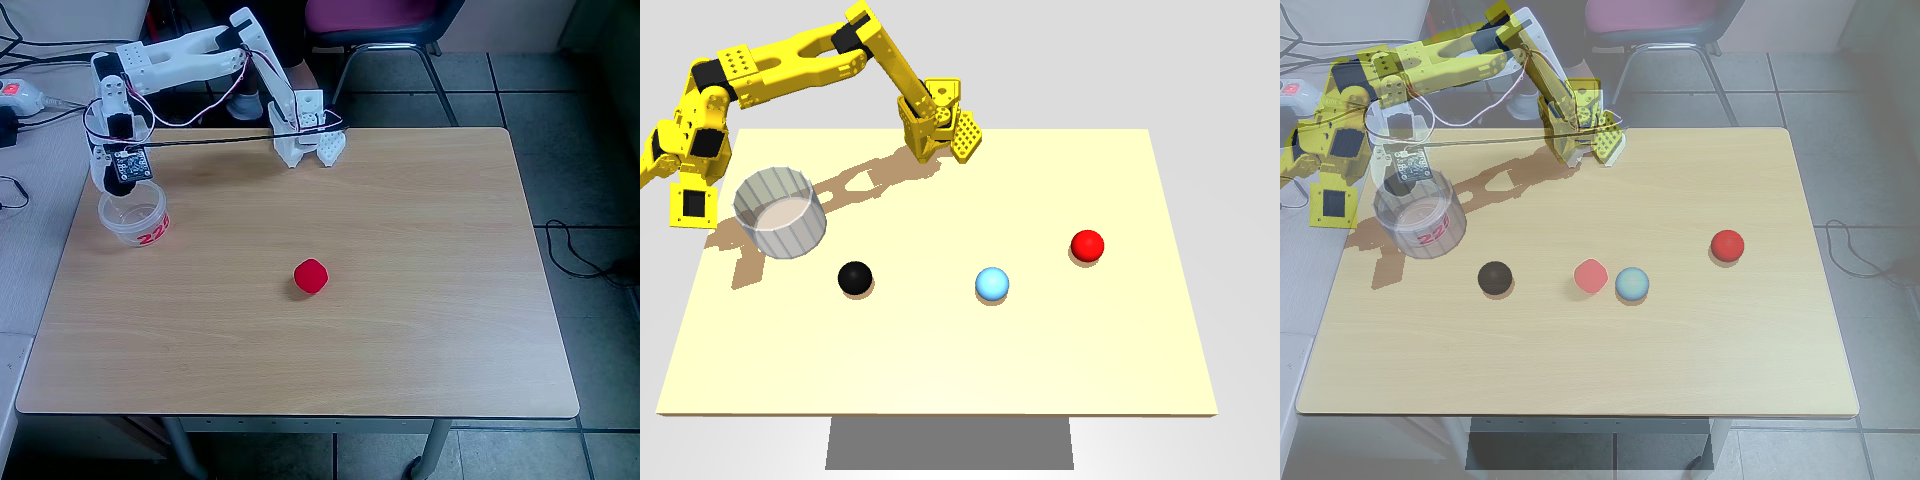
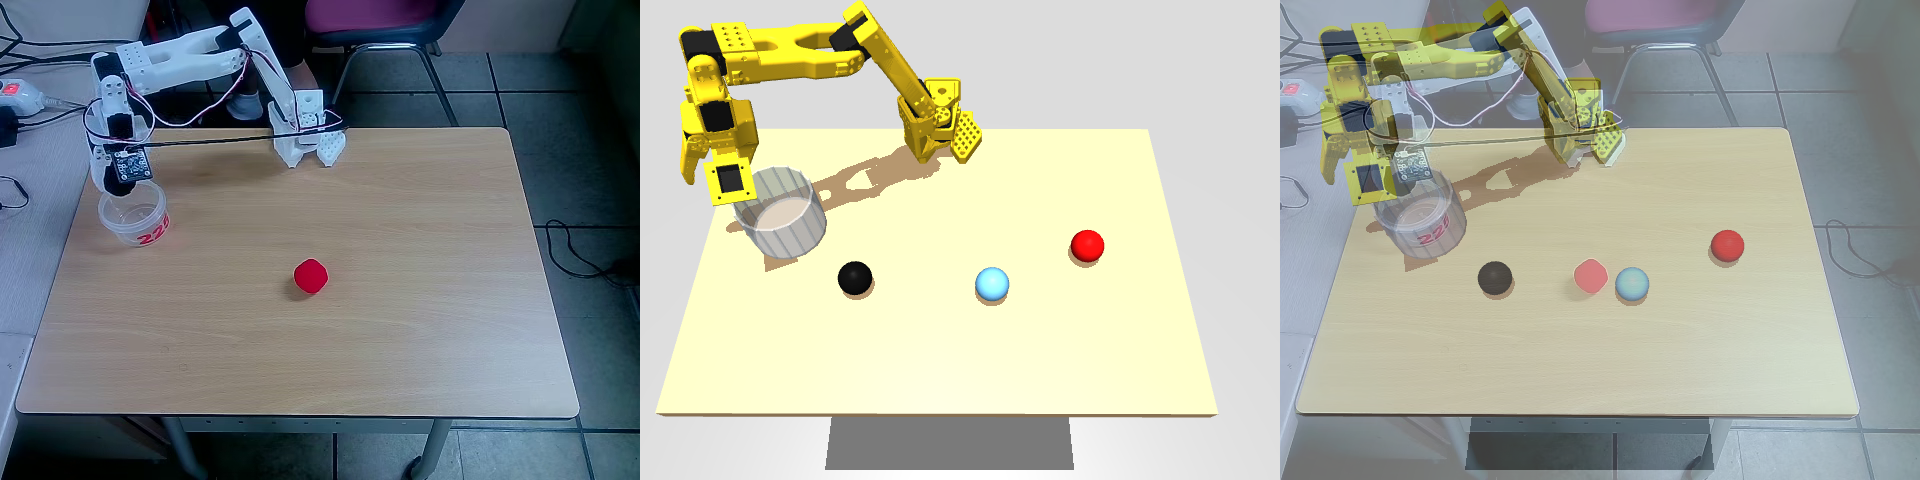
feat: calibrate joint offsets from 10 real episodes; sim home pose
- MID_RAD fitted to grasp/release frames of 10 episodes (~1.6 cm grasp error)
- widen wrist_flex range to 2.22 rad to cover the real data
- SIM_HOME_NORM: real home folds gripper into shoulder under fitted offsets,
  so the sim uses wrist_flex 43.7 instead of 71.7 (documented gap)
- wrist_cam fovy 78; refreshed alignment overlays and notes

Changed region(s): [[0.3125, 0.0, 0.4688, 0.5938], [0.6562, 0.0312, 0.8125, 0.5938], [0.4688, 0.1875, 0.5, 0.25]]

diff --git a/sim/env.py b/sim/env.py
@@ -6,7 +6,7 @@ import gymnasium as gym
 import mujoco
 import numpy as np
 
-from calib import HOME_NORM, Calib
+from calib import SIM_HOME_NORM, Calib
 
 SCENE_XML = Path(__file__).resolve().parent / "scene.xml"
 COLORS = ("red", "black", "sky blue")
@@ -90,7 +90,7 @@ class BallSortEnv(gym.Env):
         return self.calib.rad_to_norm(self.data.qpos[:6])
 
     def at_home(self) -> bool:
-        return bool(np.all(np.abs(self.joint_norm() - HOME_NORM) < HOME_TOL))
+        return bool(np.all(np.abs(self.joint_norm() - SIM_HOME_NORM) < HOME_TOL))
 
     # ---------- 내부 ----------
     def _set_ball(self, color, xy):
@@ -143,7 +143,7 @@ class BallSortEnv(gym.Env):
         options = options or {}
         if not options.get("keep_scene"):
             mujoco.mj_resetData(self.model, self.data)
-            home = HOME_NORM + self.np_random.uniform(-HOME_NOISE, HOME_NOISE, 6)
+            home = SIM_HOME_NORM + self.np_random.uniform(-HOME_NOISE, HOME_NOISE, 6)
             q = self.calib.norm_to_rad(home)
             self.data.qpos[:6] = q
             self.data.ctrl[:6] = np.clip(q, self._ctrl_lo, self._ctrl_hi)

diff --git a/calib.py b/calib.py
@@ -13,12 +13,15 @@ DEFAULT_CALIB = (
 
 # 실제 데이터셋 에피소드 시작/끝 평균 (정규화 단위)
 HOME_NORM = np.array([-2.8, 0.1, 93.7, 71.7, -0.7, 1.5])
+# 시뮬레이션 제자리 자세. 보정된 MID_RAD에서 실제 HOME_NORM은 그리퍼가 어깨에 35mm 박히므로
+# wrist_flex만 28 단위 펴서 충돌을 없앤 값. 실제와의 차이는 docs/alignment/NOTES.md 참고.
+SIM_HOME_NORM = np.array([-2.8, 0.1, 93.7, 43.7, -0.7, 1.5])
 
 TICKS_PER_REV = 4096
 MID_TICK = 2047
 # 2047 tick(= 실제 캘리브레이션 중앙 = 제자리 자세)에 해당하는 MuJoCo 관절각.
-# tools/align_overlay.py로 실제 영상과 겹쳐 보며 보정한다.
-MID_RAD = np.array([0.0, -1.70, 1.54, 1.20, 0.0, 0.0])
+# 에피소드 10개의 공 잡기/통 놓기 프레임을 위쪽 카메라로 겹쳐 최소제곱 보정 (Task 4, docs/alignment/NOTES.md).
+MID_RAD = np.array([0.02, -1.68, 1.29, 1.86, 0.0, 0.0])
 
 
 class Calib:

diff --git a/tests/test_env.py b/tests/test_env.py
@@ -1,7 +1,7 @@
 import numpy as np
 import pytest
 
-from calib import HOME_NORM
+from calib import SIM_HOME_NORM as HOME_NORM  # 시뮬레이션 제자리 자세
 from sim.env import BALL_R_MAX, COLORS, MAX_STEPS, BallSortEnv, task_text
 
 

diff --git a/docs/alignment/NOTES.md b/docs/alignment/NOTES.md
@@ -1,6 +1,6 @@
 # Sim ↔ real alignment notes (Task 4)
 
-Tool: `python tools/align_overlay.py --episode 0 --frames 0 225 325`. Each PNG is [real | sim | 50% blend].
+Tool: `python tools/align_overlay.py --episode 0 --frames 0 225 325` (`--episode 20 --frames 229 310` for the other after images). Each PNG is [real | sim | 50% blend].
 - `before_*`: the HEAD state before Task 4.
 - `after_*`: the committed state.
 - `*_front.png`: the overhead camera.
@@ -16,10 +16,13 @@ Tool: `python tools/align_overlay.py --episode 0 --frames 0 225 325`. Each PNG i
 ## Final values
 | item | value |
 |---|---|
+| MID_RAD | [0.02, -1.68, 1.29, 1.86, 0, 0] |
+| joint ranges | wrist_flex range and ctrlrange widened to [-1.658, 2.22] (real data max is 2.164 rad). Other joints unchanged |
+| SIM_HOME_NORM | [-2.8, 0.1, 93.7, **43.7**, -0.7, 1.5]: real HOME_NORM with wrist_flex -28 units. Used by the sim for reset, at_home and tests |
 | overhead camera `top` | pos (0.494, 0.025, 0.542), targetbody `cam_target` at (0.1875, 0.0245, 0), fovy 52.5 |
 | bin | center (0.165, -0.205) (scene.xml `bin` pos and env.py `BIN_CENTER`). Diameter 9 cm and height 7 cm unchanged (`BIN_R_IN` 0.045, `BIN_H` 0.07) |
-| wrist_cam | pos (-0.00296, 0.05436, -0.05310) unchanged. quat (0.954498, -0.284308, -0.085070, 0.029438), i.e. old quat rotated -10° about the camera's local y. fovy 61 unchanged |
-| MID_RAD | **unchanged** [0.0, -1.70, 1.54, 1.20, 0, 0]. See the blocker below |
+| wrist_cam | pos (-0.00296, 0.05436, -0.05310) unchanged. quat (0.954498, -0.284308, -0.085070, 0.029438) = old quat rotated -10° about the camera's local y. fovy 78 (was 61) |
+| robot base | unchanged at (0, 0, 0). A fitted offset of about 2 cm was not significant, and the base is clamped |
 
 ### Overhead camera
 - Fitted to the 4 table corners: FL(100,130), FR(508,128), NL(15,412), NR(578,415) px. Residual 0.8 px RMS.
@@ -33,42 +36,39 @@ Tool: `python tools/align_overlay.py --episode 0 --frames 0 225 325`. Each PNG i
 - Apparent rim diameter 8-9 cm and height about 7 cm, consistent with the existing geometry, so `BIN_R_IN` and `BIN_H` are unchanged. RELEASE logic in later tasks needs no change for height.
 - The sim wall still reads slightly taller than the real one in the overlay.
 
-## Blocker: joint zero offsets (MID_RAD)
-Method:
-- Constraints:
-  - frame 225: gripper closed on the black ball. 3D ball position from back-projection = (0.254, -0.111, 0.02).
-  - gripperframe pixels in frames 0, 275, 300 and 325.
-- Least-squares fit of MID_RAD[0:4] gives about [-0.05, -2.10, 1.91, 1.70], with errors of about 1-2 cm and 1-17 px. Extended frames overlay well: `evidence_fitted_mid_rad.png`.
-- Under the old limits the best feasible fit is [-0.08, -1.795, 1.68, 1.41]. It misses by 4-6 cm and up to 67 px: `evidence_bounded_mid_rad.png`.
+## Joint zero offsets (MID_RAD)
+- Data: 10 episodes (0, 1, 2, 10, 20, 30, 40, 50, 60, 70).
+- Per episode, three constraints:
+  - Grasp: the frame where the gripper first closes (<15) after opening. gripperframe must equal the black ball's 3D position. The ball is detected in frame 0 of the overhead image and back-projected to z=0.02.
+  - Release: the frame where the gripper reopens. gripperframe xy must be at the bin center.
+  - Home: a weak 2D pixel constraint.
+- Result [0.02, -1.68, 1.29, 1.86]:
+  - grasp error 1.6 cm mean, 2.6 cm max
+  - release xy 2.3 cm mean
+  - `after_multi_episode_overhead.png` (episodes 0/20/50: home, grasp, release) shows the reach silhouettes overlapping.
+- The earlier ep0-only fit [-0.05, -2.10, 1.91, 1.70] has a 5.5 cm mean grasp error on the 10 episodes. It is rejected.
 
-What I tried after the controller allowed widening the limits:
-- Widened the ranges: lift [-2.15, 1.745], elbow [-1.69, 2.01], wrist_flex [-1.658, 2.06].
-- At HOME_NORM the fitted MID_RAD puts the gripper 4.5 cm **below** the table top. Contacts:
-  - table vs gripper / jaws: up to 35 mm penetration
-  - shoulder vs lower_arm: up to 27 mm
-  - shoulder vs wrist: up to 13 mm
-  - shoulder vs fixed jaw: up to 21 mm
-- tests/test_env.py failed: home tracking reached lift 13.7 instead of 0.1 and wrist 44 instead of 71.7.
-
-More fits:
-- Adding a "home must be collision-free" penalty: the best collision-free fit has errors up to 100 px.
-- Adding a 3D home target with the tip 3 cm above the table at the observed pixel: about 6 cm error at home, and still 35 mm penetration.
-
-Conclusion: no constant per-joint offset (with sign +1 and 4096 ticks/rev) explains both the folded home pose and the extended poses. The changes were reverted. MID_RAD and the joint ranges are unchanged.
-
-Likely causes to investigate:
-- a joint whose tick→angle mapping is not a pure offset: wrong direction, or a homing/wrap issue (shoulder_lift's calibration range is 0..4094, i.e. the full circle)
-- gripperframe ≠ the real grasp point
-- the real base not being at (0, 0)
+### Known sim-to-real gap: the home pose
+- Under this MID_RAD the real HOME_NORM (wrist_flex 71.7) folds the gripper 35 mm into the shoulder (self-collision). The table is clear.
+- A fit with a collision-free-home constraint could not keep the reach errors near 2 cm. The constrained fits degraded to 3-7 cm or reached nonsensical joint configurations.
+- So the sim uses `SIM_HOME_NORM` instead. It changes wrist_flex only, 71.7 → 43.7 (-28 units ≈ -0.33 rad):
+  - no self-contact
+  - lowest gripper geom 45 mm above the table
+  - tracks within 0.02 units after 2 s
+- `HOME_NORM` stays the real value.
+- Consequences:
+  - Sim episodes start and end with the wrist about 28 units less folded than in the real data.
+  - A policy trained in sim will return to SIM_HOME_NORM.
+  - On the real robot, `at_home` should use HOME_NORM.
+- In the overhead image the real home gripper hangs in front of the shoulder. In the sim it folds back. The home-pose silhouette is visibly different (`after_ep0_f0_front.png`).
 
 ## Remaining visible mismatches
-- The robot pose is off in all extended frames because MID_RAD is not calibrated.
-  - At frame 225 the sim gripper overshoots the ball.
-  - At frame 325 it reaches past the bin.
+- Reach poses: residual about 1.5-2.5 cm. The sim upper arm reads slightly taller near the image top.
+- Home pose: see the gap above.
 - The sim robot looks about 5-10% larger than the real one in the overhead view.
 - Wrist view:
   - The sim jaws show a gap while the real jaws (closed) overlap visually.
   - The real camera appears to look from further to the side.
+  - fovy 78 is a rough fit: jaw spacing vs the 4 cm ball at the grasp frame. At release the real bin looks smaller than in the sim, i.e. the real wrist is higher above the bin by a few cm. This is consistent with the reach residual.
   - The PCB/lens visual geoms were not rotated with the camera (10° difference, visual only).
-  - Re-check after MID_RAD is fixed, since the scene content depends on the arm pose.
 - Colors and lighting differ (out of scope).
